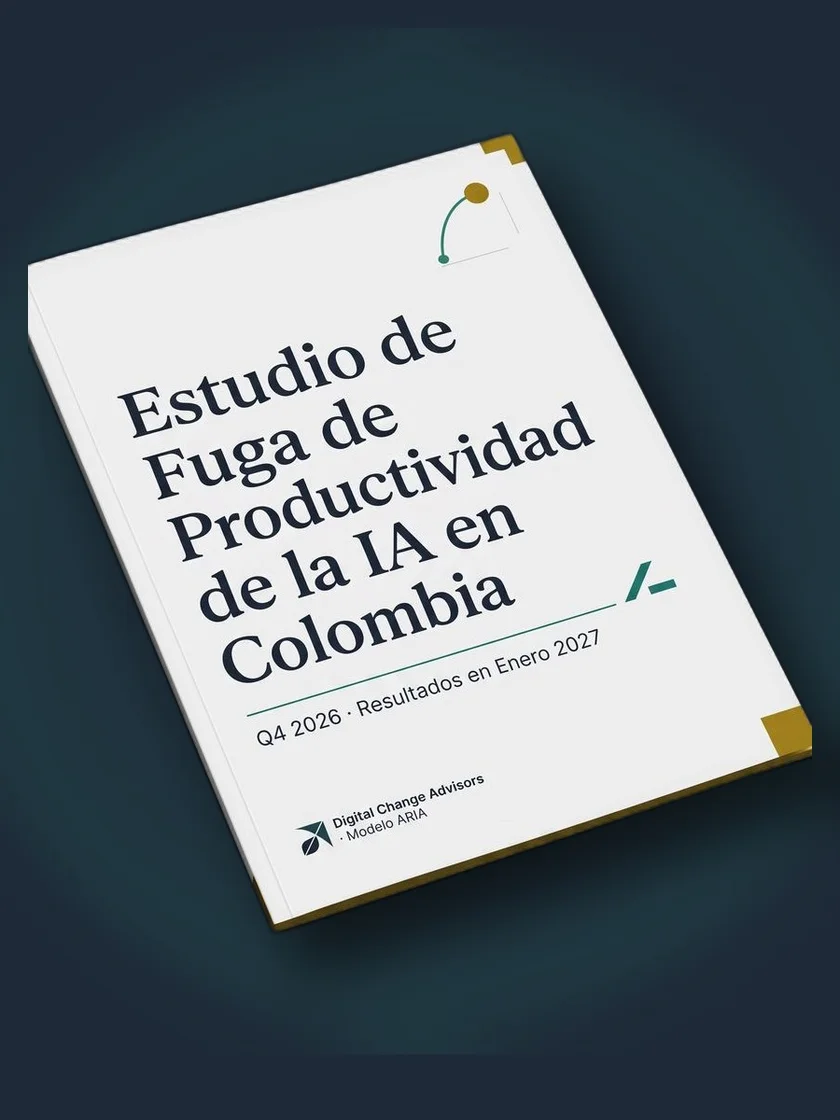
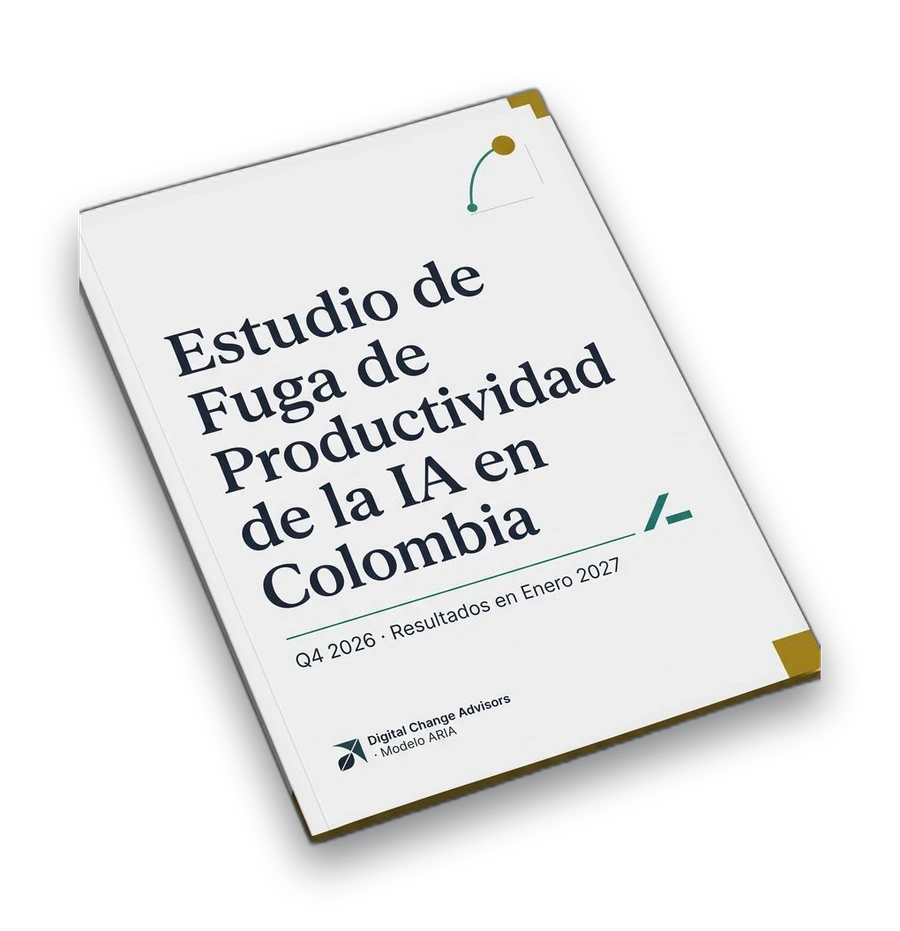
feat(blog): reconstruye la sección del Estudio de Fuga de Productividad — reducción radical
Reemplaza copy y maqueta completos de S5 en /blog: antetítulo, titular de
2 líneas explícitas, subtítulo, franja de 4 datos con filetes, línea de
valor diferencial, CTA y nota al pie — según especificación literal del
usuario. Portada recortada flotando sin tarjeta/halo, con una sola sombra
suave (rembg + composición manual, masters en _image-masters/website/).

Ajustes de ingeniería confirmados con el usuario (2026-09-09) para que el
titular nunca se parta dentro de sus 2 líneas designadas, verificado con
canvas.measureText en vez de estimación:
- Rango de fuente del titular bajado de 40-56px a 28-35px (desktop) y
  20-32px fluido (mobile) — "Tu gente ya es más productiva con IA."
  necesita 686-961px en Marcellus y ninguna columna razonable lo sostenía
  al rango original.
- Contenedor de la sección ensanchado a 1360px (solo esta sección; el
  resto del sitio sigue en 1200px) y proporción de columnas ajustada de
  45/48 a 40/60 (imagen/texto).
- Franja de 4 datos con numerales sin partir (white-space:nowrap) tiene un
  ancho mínimo de contenido que aplastaba la columna de imagen a ~100px
  en 1024-1150px — se desacopló a un breakpoint propio (≤1300px) donde
  pasa a 2×2, independiente del colapso general a 1 columna en ≤980px.
- En teléfonos ≤375px la línea 1 no cabe a ningún tamaño legible (686px
  necesarios vs. ~331px disponibles) — se permite envolvido natural a una
  2ª sub-línea solo ahí, en vez de forzar una fuente ilegible.
[…]

diff --git a/styles-blog.css b/styles-blog.css
@@ -949,7 +949,6 @@
 @media (max-width: 767px) {
   .persp-head { padding: 132px 0 44px; }
   .masthead { padding-bottom: 72px; }
-  .field-study { padding: 72px 0; }
   .authors-band { padding: 52px 0; }
   .authors-band__inner { gap: 28px; }
   .author-mini { flex: 1 1 100%; }
@@ -1037,105 +1036,99 @@
    ============================================================ */
 .field-study {
   background: var(--carbon);
-  color: rgba(255, 255, 255, 0.86);
-  padding: 104px 0;
+  padding: 120px 0;
+}
+.field-study .wrap {
+  /* Contenedor ensanchado solo para esta sección (resto del sitio sigue en
+     1200px, sin tocar) — necesario para que el titular de 2 líneas nunca
+     se parta dentro de la columna de texto. Ver nota en .field-study__h2. */
+  max-width: 1360px;
 }
 .field-study__grid {
   display: grid;
-  grid-template-columns: 0.7fr 1.3fr;
-  gap: 72px;
+  grid-template-columns: 0.8fr 1.2fr; /* imagen ~40% / texto ~60% — ajustado desde 45/48 para que el titular quepa sin partirse (medido con canvas.measureText, no estimado) */
+  gap: 48px;
   align-items: center;
 }
-.field-study__cover { perspective: 800px; }
 .field-study__cover img {
   width: 100%;
   height: auto;
-  aspect-ratio: 3 / 4;
-  border-radius: 10px;
-  box-shadow: 0 32px 72px rgba(0, 0, 0, 0.35);
   display: block;
 }
-.field-study__mock {
-  aspect-ratio: 3 / 4;
-  border-radius: 10px;
-  background: linear-gradient(145deg, #2e8b76 0%, #1a3d4c 55%, #121e28 100%);
-  display: flex;
-  flex-direction: column;
-  justify-content: flex-end;
-  padding: 32px;
-  position: relative;
-  overflow: hidden;
-  box-shadow: 0 32px 72px rgba(0, 0, 0, 0.45);
-}
-.field-study__mock::before {
-  content: "EN CONSTRUCCIÓN";
-  position: absolute;
-  top: 34px; right: -24px;
-  font-size: 9px; font-weight: 700; letter-spacing: 0.22em;
-  color: rgba(255, 255, 255, 0.22);
-  text-transform: uppercase;
-  writing-mode: vertical-lr;
-  transform: rotate(180deg);
-  user-select: none;
-}
-.field-study__mock::after {
-  content: "";
-  position: absolute;
-  inset: 0;
-  background: repeating-linear-gradient(
-    -45deg,
-    transparent,
-    transparent 18px,
-    rgba(255,255,255,0.02) 18px,
-    rgba(255,255,255,0.02) 19px
-  );
-  pointer-events: none;
-}
-.field-study__mock-tag {
-  display: inline-block;
-  font-size: 10px; font-weight: 700; letter-spacing: 0.12em;
-  text-transform: uppercase;
-  color: var(--gold);
-  border: 1.5px solid var(--gold);
-  padding: 4px 10px;
-  border-radius: 3px;
-  margin-bottom: 18px;
-  width: fit-content;
-  position: relative; z-index: 1;
-}
-.field-study__mock-title {
-  font-family: var(--display);
-  font-size: clamp(18px, 2vw, 24px);
-  color: #fff;
-  line-height: 1.35;
-  position: relative; z-index: 1;
-}
-.field-study__text .label {
-  color: var(--gold);
+
+.field-study__eyebrow {
   display: block;
-  margin-bottom: 20px;
+  color: var(--gold);
+  font-size: 12px;
+  font-weight: 500;
+  text-transform: uppercase;
+  letter-spacing: 0.12em;
+  margin-bottom: 24px;
 }
 .field-study__h2 {
+  /* Rango de fuente 28-35px, no 40-56 como en el brief original: medido con
+     canvas.measureText que "Tu gente ya es más productiva con IA." (línea 1,
+     37 caracteres) necesita 686-961px en Marcellus a 40-56px — más ancho del
+     que cabe en un contenedor de 2 columnas sin volverse absurdamente ancho.
+     Decisión confirmada con el usuario 2026-09-09: bajar el techo de fuente
+     en vez de partir la línea, combinado con el .wrap ensanchado de arriba.
+     Verificado sin wrap en 1024/1150/1280/1440/1920px con margen ≥30px. */
+  font-family: var(--display);
   color: #fff;
-  font-size: clamp(20px, 1.7vw, 25px);
-  line-height: 1.2;
-  margin-bottom: 22px;
-  text-wrap: unset;
+  font-size: clamp(28px, 2.6vw, 35px);
+  line-height: 1.05;
+  margin-bottom: 32px;
 }
 .field-study__h2 .line { display: block; }
-.field-study__text .chapeau {
-  color: rgba(255, 255, 255, 0.82);
-  margin-bottom: 28px;
-  max-width: 56ch;
-}
-.field-study__closer {
+.field-study__subtitle {
   font-family: 'Montserrat', sans-serif;
-  font-size: 15px;
-  font-weight: 600;
-  color: var(--teal);
+  font-weight: 300;
+  font-size: clamp(19px, 1.4vw, 21px);
   line-height: 1.5;
-  margin-top: 4px;
-  margin-bottom: 28px;
+  color: rgba(255, 255, 255, 0.72);
+  max-width: 52ch;
+  margin-bottom: 48px;
+}
+
+.field-study__text { min-width: 0; }
+
+.field-study__stats {
+  display: grid;
+  grid-template-columns: repeat(4, 1fr);
+  margin-bottom: 48px;
+}
+.field-study__stat {
+  padding: 0 20px;
+  border-left: 1px solid rgba(255, 255, 255, 0.12);
+}
+.field-study__stat:first-child { padding-left: 0; border-left: none; }
+.field-study__stat-num {
+  display: block;
+  font-family: 'Montserrat', sans-serif;
+  font-weight: 600;
+  font-size: 22px;
+  color: #fff;
+  margin-bottom: 8px;
+  white-space: nowrap;
+}
+.field-study__stat-label {
+  display: block;
+  font-family: 'Montserrat', sans-serif;
+  font-weight: 500;
+  font-size: 12px;
+  text-transform: uppercase;
+  letter-spacing: 0.1em;
+  color: rgba(255, 255, 255, 0.55);
+}
+
+.field-study__value {
+  font-family: 'Montserrat', sans-serif;
+  font-weight: 400;
+  font-size: 17px;
+  line-height: 1.6;
+  color: var(--teal);
+  max-width: 52ch;
+  margin-bottom: 32px;
 }
 
 .field-study__ctas {
@@ -1143,43 +1136,85 @@
   align-items: center;
   gap: 28px;
   flex-wrap: wrap;
+  margin-bottom: 32px;
 }
-.btn--gold {
-  background: var(--gold) !important;
-  color: var(--white) !important;
-  border-color: var(--gold) !important;
+.field-study__btn {
+  display: inline-flex;
+  align-items: center;
+  gap: 8px;
+  background: var(--gold);
+  color: var(--carbon);
+  font-family: 'Montserrat', sans-serif;
+  font-weight: 600;
+  font-size: 15px;
+  text-decoration: none;
+  border-radius: 6px;
+  padding: 16px 34px;
+  transition: transform 0.2s ease, box-shadow 0.2s ease;
 }
-.btn--gold:hover,
-.btn--gold:focus-visible {
-  background: #8c6d0e !important;
-  border-color: #8c6d0e !important;
+.field-study__btn:hover,
+.field-study__btn:focus-visible {
   transform: translateY(-2px);
-  box-shadow: 0 8px 22px rgba(164,129,17,0.40);
+  box-shadow: 0 8px 22px rgba(164, 129, 17, 0.40);
 }
 .field-study__secondary {
-  font-size: 13px; font-weight: 600;
-  color: var(--teal-light);
+  font-family: 'Montserrat', sans-serif;
+  font-size: 14px; font-weight: 600;
+  color: rgba(255, 255, 255, 0.60);
   text-decoration: none;
-  display: inline-flex; align-items: center; gap: 6px;
   transition: color 0.2s ease;
 }
 .field-study__secondary:hover { color: #fff; }
-.field-study__text .chapeau a {
-  color: #fff;
-  text-decoration: underline;
-  text-underline-offset: 2px;
-  text-decoration-color: rgba(255, 255, 255, 0.45);
+
+.field-study__footnote {
+  font-size: 12px;
+  color: rgba(255, 255, 255, 0.45);
+  max-width: 52ch;
 }
-.field-study__text .chapeau a:hover { text-decoration-color: #fff; }
 
 @media (max-width: 980px) {
-  /* Fix de regresión (2026-09-08): esta regla vivía antes de la declaración
-     base de .field-study__grid/.field-study__mock (línea ~1045) — con igual
-     especificidad, la base (sin media query) ganaba la cascada por orden de
-     aparición y el layout de 2 columnas nunca colapsaba en mobile, causando
-     overflow horizontal real en producción. Movida a después de la base. */
-  .field-study__grid { grid-template-columns: 1fr; gap: 44px; }
-  .field-study__mock { max-width: 300px; aspect-ratio: 3 / 4; }
+  /* Fix de cascada (2026-09-08): esta regla vivía antes de la declaración
+     base de .field-study__grid (arriba) — con igual especificidad, la base
+     (sin media query) ganaba por orden de aparición y el layout nunca
+     colapsaba en mobile. Se mantiene después de la base tras la reescritura
+     completa de la sección (2026-09-09) para no repetir el mismo error. */
+  .field-study__grid { grid-template-columns: 1fr; gap: 32px; }
+  .field-study__h2 {
+    /* Fluido, no fijo: a ≤375px ("Tu gente ya es más productiva con IA.")
+       no cabe en una sola línea ni al tamaño mínimo legible (686px
+       necesarios vs. ~331px disponibles) — se permite un envolvido natural
+       a una 2ª sub-línea solo en esos teléfonos muy angostos, en vez de
+       forzar una fuente ilegible. En teléfonos modernos (390px+) sí cabe
+       sin partirse. Confirmado con el usuario 2026-09-09. */
+    font-size: clamp(20px, 5vw, 32px);
+  }
+  .field-study__ctas { flex-direction: column; align-items: stretch; gap: 16px; }
+  .field-study__btn { justify-content: center; width: 100%; }
+  .field-study__secondary { text-align: center; }
+}
+@media (max-width: 767px) {
+  /* Movida de su ubicación original (línea ~950, antes de la base .field-study
+     de arriba) por el mismo bug de cascada documentado arriba: con igual
+     especificidad y ambas condiciones activas a ≤767px, la base ganaba por
+     orden de aparición y este padding reducido nunca se aplicaba en mobile. */
+  .field-study { padding: 72px 0; }
+}
+@media (max-width: 1300px) {
+  /* Umbral independiente del colapso a 1 columna (≤980px, arriba): incluso
+     con las 2 columnas todavía activas (imagen + texto), la franja de 4
+     datos con números sin partir (white-space:nowrap) tiene un ancho mínimo
+     de contenido de ~766px que el grid no deja encoger — toda la presión
+     terminaba aplastando la columna de la imagen a ~100px en 1024-1150px.
+     Pasar la franja a 2×2 aquí libera esa columna sin afectar el colapso
+     general de la maqueta, que sigue ocurriendo en ≤980px. */
+  .field-study__stats { grid-template-columns: repeat(2, 1fr); row-gap: 20px; }
+  .field-study__stat {
+    border-left: none;
+    border-top: 1px solid rgba(255, 255, 255, 0.12);
+    padding: 16px 16px 0 0;
+  }
+  .field-study__stat:nth-child(-n+2) { border-top: none; padding-top: 0; }
+  .field-study__stat:nth-child(even) { padding-right: 0; padding-left: 16px; }
 }
 
 /* ============================================================

diff --git a/blog.html b/blog.html
@@ -66,7 +66,7 @@
   },
   "inLanguage": "es",
   "citation": [
-    { "@type": "CreativeWork", "name": "The State of AI in 2026: On the Road to ROI", "publisher": { "@type": "Organization", "name": "McKinsey & Company" }, "url": "https://www.mckinsey.com/capabilities/quantumblack/our-insights/the-state-of-ai", "description": "Encuesta a 1.719 participantes en 97 países, trabajo de campo del 4 de mayo al 8 de junio de 2026, publicada el 25 de agosto de 2026. Citada en la sección Investigación en curso (Estudio de Fuga de Productividad de la IA en Colombia) por el 80% de mejora de productividad individual y el 37% de impacto en EBIT — mismas dos cifras y misma fuente ya citadas con este objeto en article-paper10.html." }
+    { "@type": "CreativeWork", "name": "The State of AI in 2026: On the Road to ROI", "publisher": { "@type": "Organization", "name": "McKinsey & Company" }, "url": "https://www.mckinsey.com/capabilities/quantumblack/our-insights/the-state-of-ai", "description": "Encuesta a 1.719 participantes en 97 países, trabajo de campo del 4 de mayo al 8 de junio de 2026, publicada el 25 de agosto de 2026. Citada en la sección Estudio de Fuga de Productividad de la IA · Colombia 2026 por el 80% de mejora de productividad individual y el 37% de impacto en EBIT — mismas dos cifras y misma fuente ya citadas con este objeto en article-paper10.html." }
   ],
   "blogPost": [
     {
@@ -665,32 +665,53 @@
   </div>
 </section>
 
-<!-- ============================ S5 INVESTIGACIÓN EN CURSO ============================ -->
-<section class="field-study" data-screen-label="Investigación en curso">
+<!-- ============================ S5 ESTUDIO DE FUGA DE PRODUCTIVIDAD ============================ -->
+<section class="field-study" data-screen-label="Estudio de Fuga de Productividad">
   <div class="wrap">
     <div class="field-study__grid">
 
       <div class="field-study__cover" data-reveal>
         <picture>
           <source srcset="assets/field-study-cover.webp" type="image/webp">
-          <img class="opt-img" src="assets/field-study-cover.jpg" alt="Portada del Estudio de Fuga de Productividad de la IA en Colombia — Digital Change Advisors · Modelo ARIA · campo abierto hasta el 16 de octubre de 2026" width="420" height="560" loading="lazy" decoding="async">
+          <img src="assets/field-study-cover.png" alt="Portada del Estudio de Fuga de Productividad de la IA en Colombia — Digital Change Advisors · Modelo ARIA · muestra objetivo 40 empresas, cierre de campo 16 de octubre de 2026" width="450" height="466" loading="lazy" decoding="async">
         </picture>
       </div>
 
       <div class="field-study__text" data-reveal>
-        <span class="label">Investigación en curso · Campo abierto hasta el 16 de octubre</span>
+        <span class="field-study__eyebrow">Estudio de Fuga de Productividad de la IA · Colombia 2026</span>
         <h2 class="field-study__h2">
-          <span class="line">Fuga de Productividad de la IA en Colombia: el estudio que</span>
-          <span class="line">cuantifica lo que tu inversión no recupera.</span>
+          <span class="line">Tu gente ya es más productiva con IA.</span>
+          <span class="line">Tu P&amp;L todavía no lo sabe.</span>
         </h2>
-        <p class="chapeau"><a href="https://www.mckinsey.com/capabilities/quantumblack/our-insights/the-state-of-ai" target="_blank" rel="noopener noreferrer">McKinsey</a> midió en agosto de 2026, sobre 1.719 ejecutivos en 97 países: ocho de cada diez reportan más productividad personal con inteligencia artificial. Menos de cuatro de cada diez la encuentran en el EBIT de su empresa. Nadie ha medido esa distancia en Colombia.</p>
-        <p class="chapeau">Este es el primer estudio de campo que la mide, en organizaciones medianas y grandes con inversión activa en IA. Método: AI Return Test, 55 preguntas, menos de 30 minutos. Muestra objetivo: 40 empresas colombianas. El campo cierra el 16 de octubre.</p>
-        <p class="chapeau">Las empresas que completen la medición antes del cierre reciben tres cosas que el informe público no incluye: su resultado individual, su posición frente a las demás participantes y una lectura de treinta minutos con el equipo del estudio. La entrega a participantes es el 3 de noviembre de 2026. La publicación abierta, en enero de 2027.</p>
-        <p class="field-study__closer">Si tu empresa ya invirtió en IA y todavía no puede decir cuánto retornó, esta medición te da el número antes de que alguien te lo pregunte.</p>
-        <div class="field-study__ctas">
-          <a href="https://digitalchangeadvisors.com/art/?utm_source=blog&utm_medium=website&utm_campaign=ai-return-test" class="btn btn--gold" target="_blank" rel="noopener">Medir mi empresa · 30 minutos <span class="arrow">&rarr;</span></a>
-          <a href="#newsletter-pulse" class="field-study__secondary">Solo quiero el informe público de enero <span class="arrow">&rarr;</span></a>
+        <p class="field-study__subtitle">Ocho de cada diez ejecutivos reportan lo primero. Menos de cuatro de cada diez encuentran lo segundo. Nadie ha medido esa distancia en Colombia.</p>
+
+        <div class="field-study__stats">
+          <div class="field-study__stat">
+            <span class="field-study__stat-num">40 empresas</span>
+            <span class="field-study__stat-label">Muestra objetivo</span>
+          </div>
+          <div class="field-study__stat">
+            <span class="field-study__stat-num">55 preguntas</span>
+            <span class="field-study__stat-label">Menos de 30 minutos</span>
+          </div>
+          <div class="field-study__stat">
+            <span class="field-study__stat-num">16 de octubre</span>
+            <span class="field-study__stat-label">Cierre de campo</span>
+          </div>
+          <div class="field-study__stat">
+            <span class="field-study__stat-num">3 de noviembre</span>
+            <span class="field-study__stat-label">Entrega a participantes</span>
+          </div>
         </div>
+
+        <p class="field-study__value">Participar es la única forma de conocer tu número y tu posición frente a las demás empresas antes de la publicación abierta de enero de 2027.</p>
+
+        <div class="field-study__ctas">
+          <a href="https://digitalchangeadvisors.com/art/?utm_source=blog&utm_medium=website&utm_campaign=ai-return-test" class="field-study__btn" target="_blank" rel="noopener">Medir mi empresa <span class="arrow">&rarr;</span></a>
+          <a href="#newsletter-pulse" class="field-study__secondary">Solo el informe de enero</a>
+        </div>
+
+        <p class="field-study__footnote">Fuente: McKinsey, <em>The state of AI in 2026</em>, agosto de 2026. 1.719 ejecutivos en 97 países.</p>
       </div>
 
     </div>
@@ -775,7 +796,7 @@
       <div class="exit-cta__action">
         <a href="https://digitalchangeadvisors.com/art/?utm_source=blog&utm_medium=website&utm_campaign=ai-return-test" class="btn btn--gold btn--lg" target="_blank" rel="noopener">Iniciar el diagnóstico <span class="arrow">&rarr;</span></a>
         <p class="exit-cta__note">Sin compromiso · 55 preguntas, menos de 30 minutos · Tu reporte es confidencial</p>
-        <a href="https://tidycal.com/pwgdigital/returnai" class="exit-cta__alt" target="_blank" rel="noopener">Si ya tienes tus resultados, agenda tu sesión de 30 minutos &rarr;</a>
+        <a href="https://agenda.digitalchangeadvisors.com/retorno-ia" class="exit-cta__alt" target="_blank" rel="noopener">Si ya tienes tus resultados, agenda tu sesión de 30 minutos &rarr;</a>
       </div>
     </div>
   </div>
@@ -828,7 +849,7 @@
         <h4>Contacto</h4>
         <ul>
           <li><a href="mailto:ceo@digitalchangeadvisors.com">ceo@digitalchangeadvisors.com</a></li>
-          <li><a href="https://tidycal.com/pwgdigital/returnai" target="_blank" rel="noopener">Agendar sesión</a></li>
+          <li><a href="https://agenda.digitalchangeadvisors.com/retorno-ia" target="_blank" rel="noopener">Agendar sesión</a></li>
           <li><a href="https://digitalchangeadvisors.com/contacto/">Página de contacto</a></li>
         </ul>
       </div>
